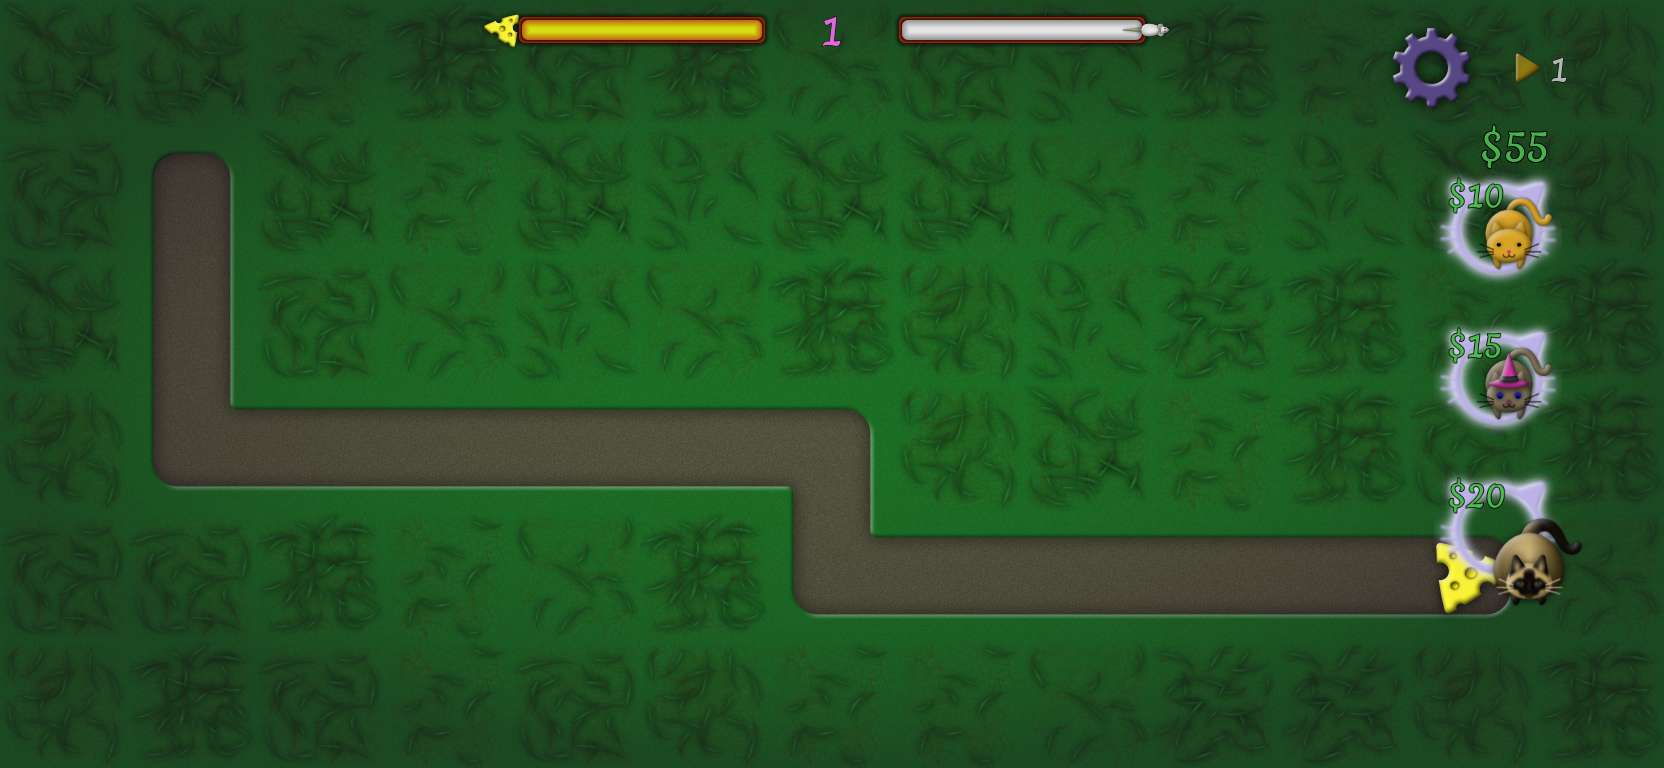
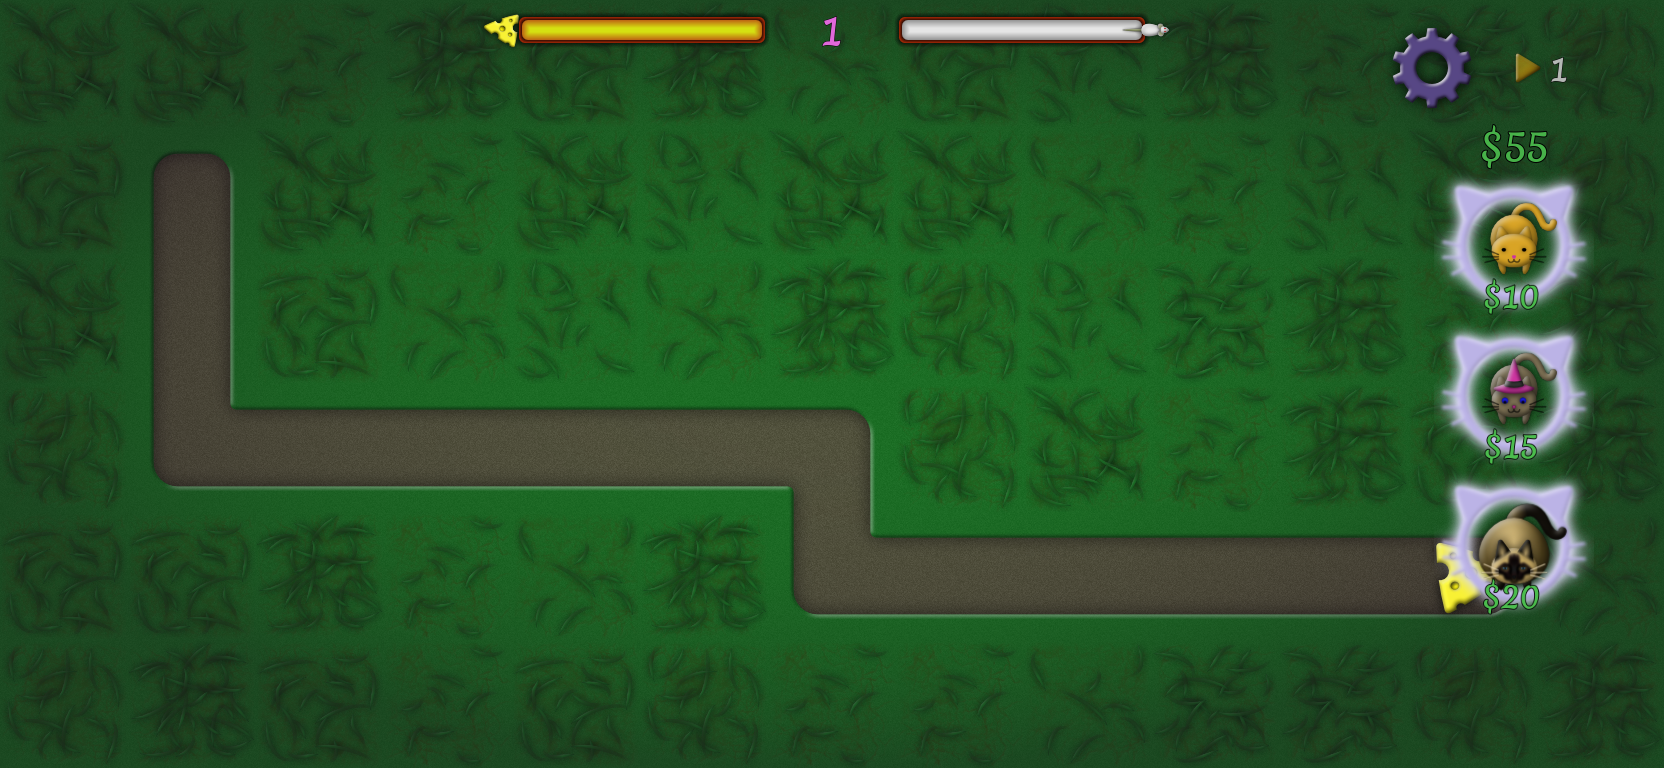
fix tower button centralization

Changed region(s): [[0.8438, 0.2188, 0.9688, 0.8125]]

diff --git a/AGENTS.md b/AGENTS.md
@@ -21,3 +21,6 @@ For standalone diagnostic scripts executed with the -s flag, inherit from SceneT
 
 If you find a helper python script could be helpful, write them to tools/ and keep it there for future features and future agents.
 
+We have screenshot and recording tools at tools/capture/ if you need to take screenshots of record movies of gameplay for debugging, consider using those tools. If those tools are not sufficient for your use case, consider adding or improving these tools to help future agents with similar needs.
+
+Tests should focus on generalized mechanics and not hardcoded values. Consider that designers might change game balance. Good test: if damage is X then was final health after taking damage the expected value?  Bad test: is damage set to 4?
